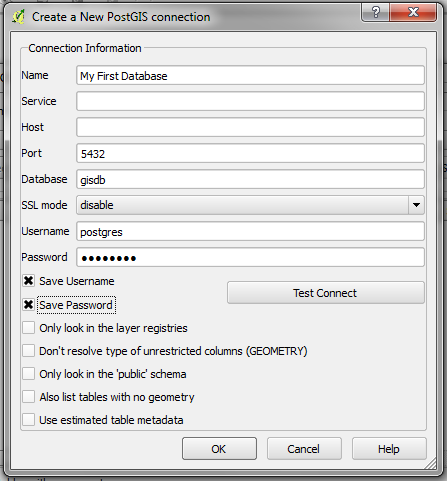
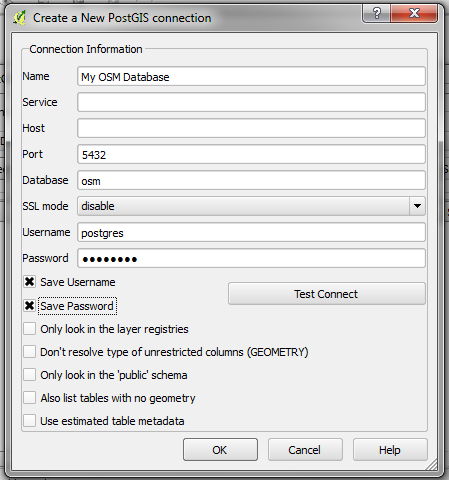
osm2pgsql updated with image location corrected, ready for translation

Changed region(s): [[0.0, 0.0, 1.0, 1.0]]

diff --git a/_posts/en/osm-data/0600-12-09-osm2pgsql.md b/_posts/en/osm-data/0600-12-09-osm2pgsql.md
@@ -8,184 +8,150 @@ category: osm-data
 
 osm2pgsql
 ==========
-In the previous chapter we saw how to set up Postgresql with PostGIS in Windows and
-how to set up a database and load it with shapefile data. In order to get OpenStreetMap
-data into a database, you could get the data in shapefile format and use the shapefile
-loader, but this may leave you without all the data that you want. In this chapter we
-will learn how to use **osm2pgsql**, a command-line program for loading raw OSM
-data into a PostGIS database.
 
-We will go through the steps to set up osm2pgsql on Windows, though the steps should
-be roughly the same on another operating system, assuming you have set up your
-PostGIS database(s) correctly.
+> This guide may be downloaded as [osm2pgsql_en.odt](/files/osm2pgsql_en.odt) or [osm2pgsql_en.pdf](/files/osm2pgsql_en.pdf)  
+
+In the previous chapter we saw how to set up Postgresql with PostGIS in Windows and how to set up a database and load it with shapefile data. In order to get OpenStreetMap data into a database, you could get the data in shapefile format and use the shapefile loader, but this may leave you without all the data that you want. In this chapter we will learn how to use **osm2pgsql**, a command-line program for loading raw OSM data into a PostGIS database.  
+
+We will go through the steps to set up osm2pgsql on Windows, though the steps should be roughly the same on another operating system, assuming you have set up your PostGIS database(s) correctly.  
 
 Get osm2pgsql
 -------------
--	To download the windows version of osm2pgsql, navigate your web browser to
-	[http://wiki.openstreetmap.org/wiki/Osm2pgsql#Windows](http://wiki.openstreetmap.org/wiki/Osm2pgsql#Windows).
+
+To download the windows version of osm2pgsql, navigate your web browser to <http://wiki.openstreetmap.org/wiki/Osm2pgsql#Windows>.  
 
 ![windows binary][]
 
--	Download the file named osm2pgsql.zip
--	Unzip the file on your system. You should move the unzipped folder to a location where you will
-	not move it later, because we need to add its location to the system path.
+- Download the file named **osm2pgsql.zip**  
+- Unzip the file on your system. You should move the unzipped folder to a location where you will not move it later, because we need to add its location to the system path.  
 
 ![unzip it][]
 
--	In the osm2pgsql directory that you unzipped is a file called osm2pgsql.exe.  This is a program
-	that we will run to import the data, but in order for Windows to find it, we need to add its
-	location to the system path.  Click on the Start Menu and type “system path.”
+- In the osm2pgsql directory that you unzipped is a file called osm2pgsql.exe.  This is a program that we will run to import the data, but in order for Windows to find it, we need to add its location to the system path.  Click on the Start Menu and type “system path.”  
 
 ![system path][]
 
--	You should see an option named “Edit the system environment variables.”  Click on it.
+- You should see an option named “Edit the system environment variables.”  Click on it.  
 
 ![edit variables][]
 
--	Click on the button named “Environment Variables.”
+- Click on the button named “**Environment Variables**”  
 
 ![env variables][]
 
--	At the bottom find the variable named “Path” and click “Edit...”
+- At the bottom find the variable named “**Path**” and click “**Edit...**”  
 
 ![find path][]
 
--	You must add the directory where osm2pgsql.exe is located to the Path variable.
+- You must add the directory where osm2pgsql.exe is located to the Path variable.  
 
 ![edit path][]
 
--	Add a semicolon to the end of the previous directory and then type in the full
-	directory path of osm2pgsql.exe.  For example, if you put the **osm2pgsql** folder
-	directly in the **C:\\** directory the path would be:
+- Add a semicolon to the end of the previous directory and then type in the full directory path of osm2pgsql.exe.  For example, if you put the **osm2pgsql** folder directly in the **C:\\** directory the path would be:  
 	
-		C:\osm2pgsql\Win32
+**C:\osm2pgsql\Win32**  
 
--	Click OK several times to save the new settings.
--	**osm2pgsql** should be functioning now. Let's check it.
--	Open the Windows Command Prompt. You can do this by clicking on the Start Menu and typing
-	"cmd". The Command Prompt application will come up and you can press Enter or click on it.
+- Click OK several times to save the new settings.  
+- **osm2pgsql** should be functioning now. Let's check it.  
+- Open the Windows Command Prompt. You can do this by clicking on the Start Menu and typing "**cmd**". The Command Prompt application will come up and you can press Enter or click on it.  
 
 ![cmd][]
 
--	In the black command window that opens, type:
+- In the black command window that opens, type:  
 
-		osm2pgsql
+**osm2pgsql**
 
--	If everything is working right, you should get a message like this:
+- If everything is working right, you should get a message like this:  
 
 ![osm2pgsql test][]
 
--	If you don't see an error message like this, and it says that it cannot find the application
-	**osm2pgsql**, then you may have entered the Path variable incorrectly.
+- If you don't see an error message like this, and it says that it cannot find the application **osm2pgsql**, then you may have entered the Path variable incorrectly.  
 
 Getting Raw OSM Data
 ---------------------
-Before we can run **osm2pgsql** we need to have some raw OSM data to import into a database.
-If you don't already have a **.osm** file that you can use, try downloading a file from
-[http://metro.teczno.com/](http://metro.teczno.com/). This site hosts many OSM extracts for
-different cities.  Find a city to import and download the PBF file for it. PBF files are
-compressed versions of the normal **.osm** files. You can use any of the extract services
-listed in the chapter on [getting data](/en/osm-data/getting-data), if you'd like the raw data
-for another area.
+Before we can run **osm2pgsql** we need to have some raw OSM data to import into a database. If you don't already have a **.osm** file that you can use, try downloading a file from [http://metro.teczno.com/](http://metro.teczno.com/). This site hosts many OSM extracts for different cities.  Find a city to import and download the PBF file for it. PBF files are compressed versions of the normal **.osm** files. You can use any of the extract services listed in the chapter on [getting data](/en/osm-data/getting-data), if you'd like the raw data for another area.  
 
 Get the Style File
 ------------------
--	**osm2pgsql** requires the use of a custom style file to define which tags are included
-	in the database during import. You can download the default style file
-	[here](/files/default.style).
+**osm2pgsql** requires the use of a custom style file to define which tags are included in the database during import. You can download the default style file [here](/files/default.style).  
 
 Importing the Data
 -------------------
--	Open PgAdmin III and create a new database named **osm**, just as you did in the
-	previous chapter.
--	To import the data, we will run the **osm2pgsql** program via the command line. Click on
-	the Start Menu and type "cmd" and Enter to open the Command Prompt.
+Open PgAdmin III and create a new database named **osm**, just as you did in the previous chapter. To import the data, we will run the **osm2pgsql** program via the command line. 
+
+- Click on the Start Menu and type "cmd" and Enter to open the Command Prompt.  
 
 ![command prompt][]
 
-Here we will run the application **osm2pgsql** with several options. We need at least
-to supply it with:
+Here we will run the application **osm2pgsql** with several options. We need at least to supply it with:  
 
--	The location of the OSM Data File
--	The name of the database, and the database username
--	The style file which defines which OSM tags will be imported to the database
+- The location of the OSM Data File  
+- The name of the database, and the database username  
+- The style file which defines which OSM tags will be imported to the database  
 
-We have placed our OSM file into the **C:\\** directory to make this easier.
+We have placed our OSM file into the **C:\\** directory to make this easier.  
 
--	Type the following command, replacing the location of the OSM file and style file with your own.
+- Type the following command, replacing the location of the OSM file and style file with your own.
 
-		osm2pgsql -c -d osm -U postgres -H localhost
-		-S C:\default.style C:\bangkok.osm.pbf
+      osm2pgsql -c -d osm -U postgres -H localhost -S C:\default.style C:\bangkok.osm.pbf  
 
--	Press Enter. If all goes well, the process should begin running. It may take a few minutes for all
-	of the data to load into the database.
+- Press Enter. If all goes well, the process should begin running. It may take a few minutes for all of the data to load into the database.  
 
 ![osm2pgsql output][]
 
--	If your raw OSM file is large, you may need to add additional memory
-	to the osm2pgsql import process. To do this, add the following to the command:
-		--cache 600
+- If your raw OSM file is large, you may need to add additional memory to the osm2pgsql import process. To do this, add the following to the command:  
+
+      --cache 600
 
 Testing It
 -----------
-We can test that the import was successful and view the data in our database using QGIS.
 
--	Open QGIS and click on the "Add PostGIS Layers" button.
+We can test that the import was successful and view the data in our database using QGIS.  
 
-![qgis add postgis button][]
+- Open QGIS and click on the "Add PostGIS Layers" button. ![qgis add postgis button][]{: height="24px"}
 
--	Under “Connections” at the top, click “New.”
--	Give the new connection a name.  Under database type **osm** (the name of your database).
-	Enter the username postgres and your password below.
+- Under “Connections” at the top, click “New.”  
+- Give the new connection a name.  Under database type **osm** (the name of your database).  
+- Enter the username postgres and your password below.  
 
 ![connection settings][]
 
--	Click OK to save the connection settings.  Then click “Connect” to connect to your PostgreSQL
-	server.
--	Click next to "public" to see all of the layers (tables) in your database. Notice that osm2pgsql
-	creates a separate table for different object types - points, lines, and polygons. It also creates
-	a roads table, which contains only major roads.
+- Click OK to save the connection settings.  Then click “Connect” to connect to your PostgreSQL server.  
+- Click next to "public" to see all of the layers (tables) in your database. Notice that osm2pgsql creates a separate table for different object types - points, lines, and polygons. It also creates a roads table, which contains only major roads.  
 
 ![postgis layers][]
 
--	Select one or more of the layers and click "Add." If asked, choose WGS84 as the CRS.
--	If everything is successful, you will see the layers you selected displayed in QGIS.
+- Select one or more of the layers and click "Add." If asked, choose WGS84 as the CRS.  
+- If everything is successful, you will see the layers you selected displayed in QGIS.  
 
 ![osm in qgis][]
 
-> If you look at the attribute tables of the layers, you will see that the attributes are mapped
-> to OSM tags. The specific tags that are imported are defined during the **osm2pgsql** import
-> process. In order to add specific tags that are not included by default, you can edit the
-> *style* file that osm2pgsql references to define the data schema.
+> If you look at the attribute tables of the layers, you will see that the attributes are mapped to OSM tags. The specific tags that are imported are defined during the **osm2pgsql** import process. In order to add specific tags that are not included by default, you can edit the *style* file that osm2pgsql references to define the data schema.  
 
 
 Summary
 -------
-When you want to import OpenStreetMap data into your own database, **osm2pgsql** is a great tool.
-It can be extremely useful when you need to be able to get the most up-to-date OSM data and
-customize the attributes you want, or when working on more complex projects.
 
-Another import tool has been developed recently, called [imposm](http://imposm.org/), and offers
-some speed and other improvements over osm2pgsql, although as of this writing it lacks other key
-functions which are promised in imposom version 3.
+When you want to import OpenStreetMap data into your own database, **osm2pgsql** is a great tool. It can be extremely useful when you need to be able to get the most up-to-date OSM data and customize the attributes you want, or when working on more complex projects.  
 
-For more information on osm2pgsql, refer to the OSM Wiki - 
-[http://wiki.openstreetmap.org/wiki/Osm2pgsql](http://wiki.openstreetmap.org/wiki/Osm2pgsql).
+Another import tool has been developed recently, called [imposm](http://imposm.org/), and offers some speed and other improvements over osm2pgsql, although as of this writing it lacks other key functions which are promised in imposom version 3.  
+
+For more information on osm2pgsql, refer to the OSM Wiki - <http://wiki.openstreetmap.org/wiki/Osm2pgsql>.  
 
 
-[windows binary]: /images/en/osm-data/osm2pgsql/windows-binary.png
-[unzip it]: /images/en/osm-data/osm2pgsql/unzip-it.png
-[system path]: /images/en/osm-data/osm2pgsql/system-path.png
-[edit variables]: /images/en/osm-data/osm2pgsql/edit-environment-variables.png
-[env variables]: /images/en/osm-data/osm2pgsql/environment-variables.png
-[find path]: /images/en/osm-data/osm2pgsql/find-path.png
-[edit path]: /images/en/osm-data/osm2pgsql/edit-path-variable.png
-[cmd]: /images/en/osm-data/osm2pgsql/cmd.png
-[osm2pgsql test]: /images/en/osm-data/osm2pgsql/osm2pgsql-test.png
-[command prompt]: /images/en/osm-data/osm2pgsql/command-prompt.png
-[osm2pgsql output]: /images/en/osm-data/osm2pgsql/osm2pgsql-output.png
-[qgis add postgis button]: /images/en/osm-data/osm2pgsql/add-postgis-button.png
-[connection settings]: /images/en/osm-data/osm2pgsql/connection-settings.png
-[postgis layers]: /images/en/osm-data/osm2pgsql/postgis-layers.png
-[osm in qgis]: /images/en/osm-data/osm2pgsql/osm-in-qgis.png
+[windows binary]: /images/osm-data/windows-binary.png
+[unzip it]: /images/osm-data/unzip-it.png
+[system path]: /images/osm-data/system-path.png
+[edit variables]: /images/osm-data/edit-environment-variables.png
+[env variables]: /images/osm-data/environment-variables.png
+[find path]: /images/osm-data/find-path.png
+[edit path]: /images/osm-data/edit-path-variable.png
+[cmd]: /images/osm-data/cmd.png
+[osm2pgsql test]: /images/osm-data/osm2pgsql-test.png
+[command prompt]: /images/osm-data/command-prompt.png
+[osm2pgsql output]: /images/osm-data/osm2pgsql-output.png
+[qgis add postgis button]: /images/osm-data/add-postgis-button.png
+[connection settings]: /images/osm-data/connection-settings.png
+[postgis layers]: /images/osm-data/postgis-layers.png
+[osm in qgis]: /images/osm-data/osm-in-qgis.png
 
